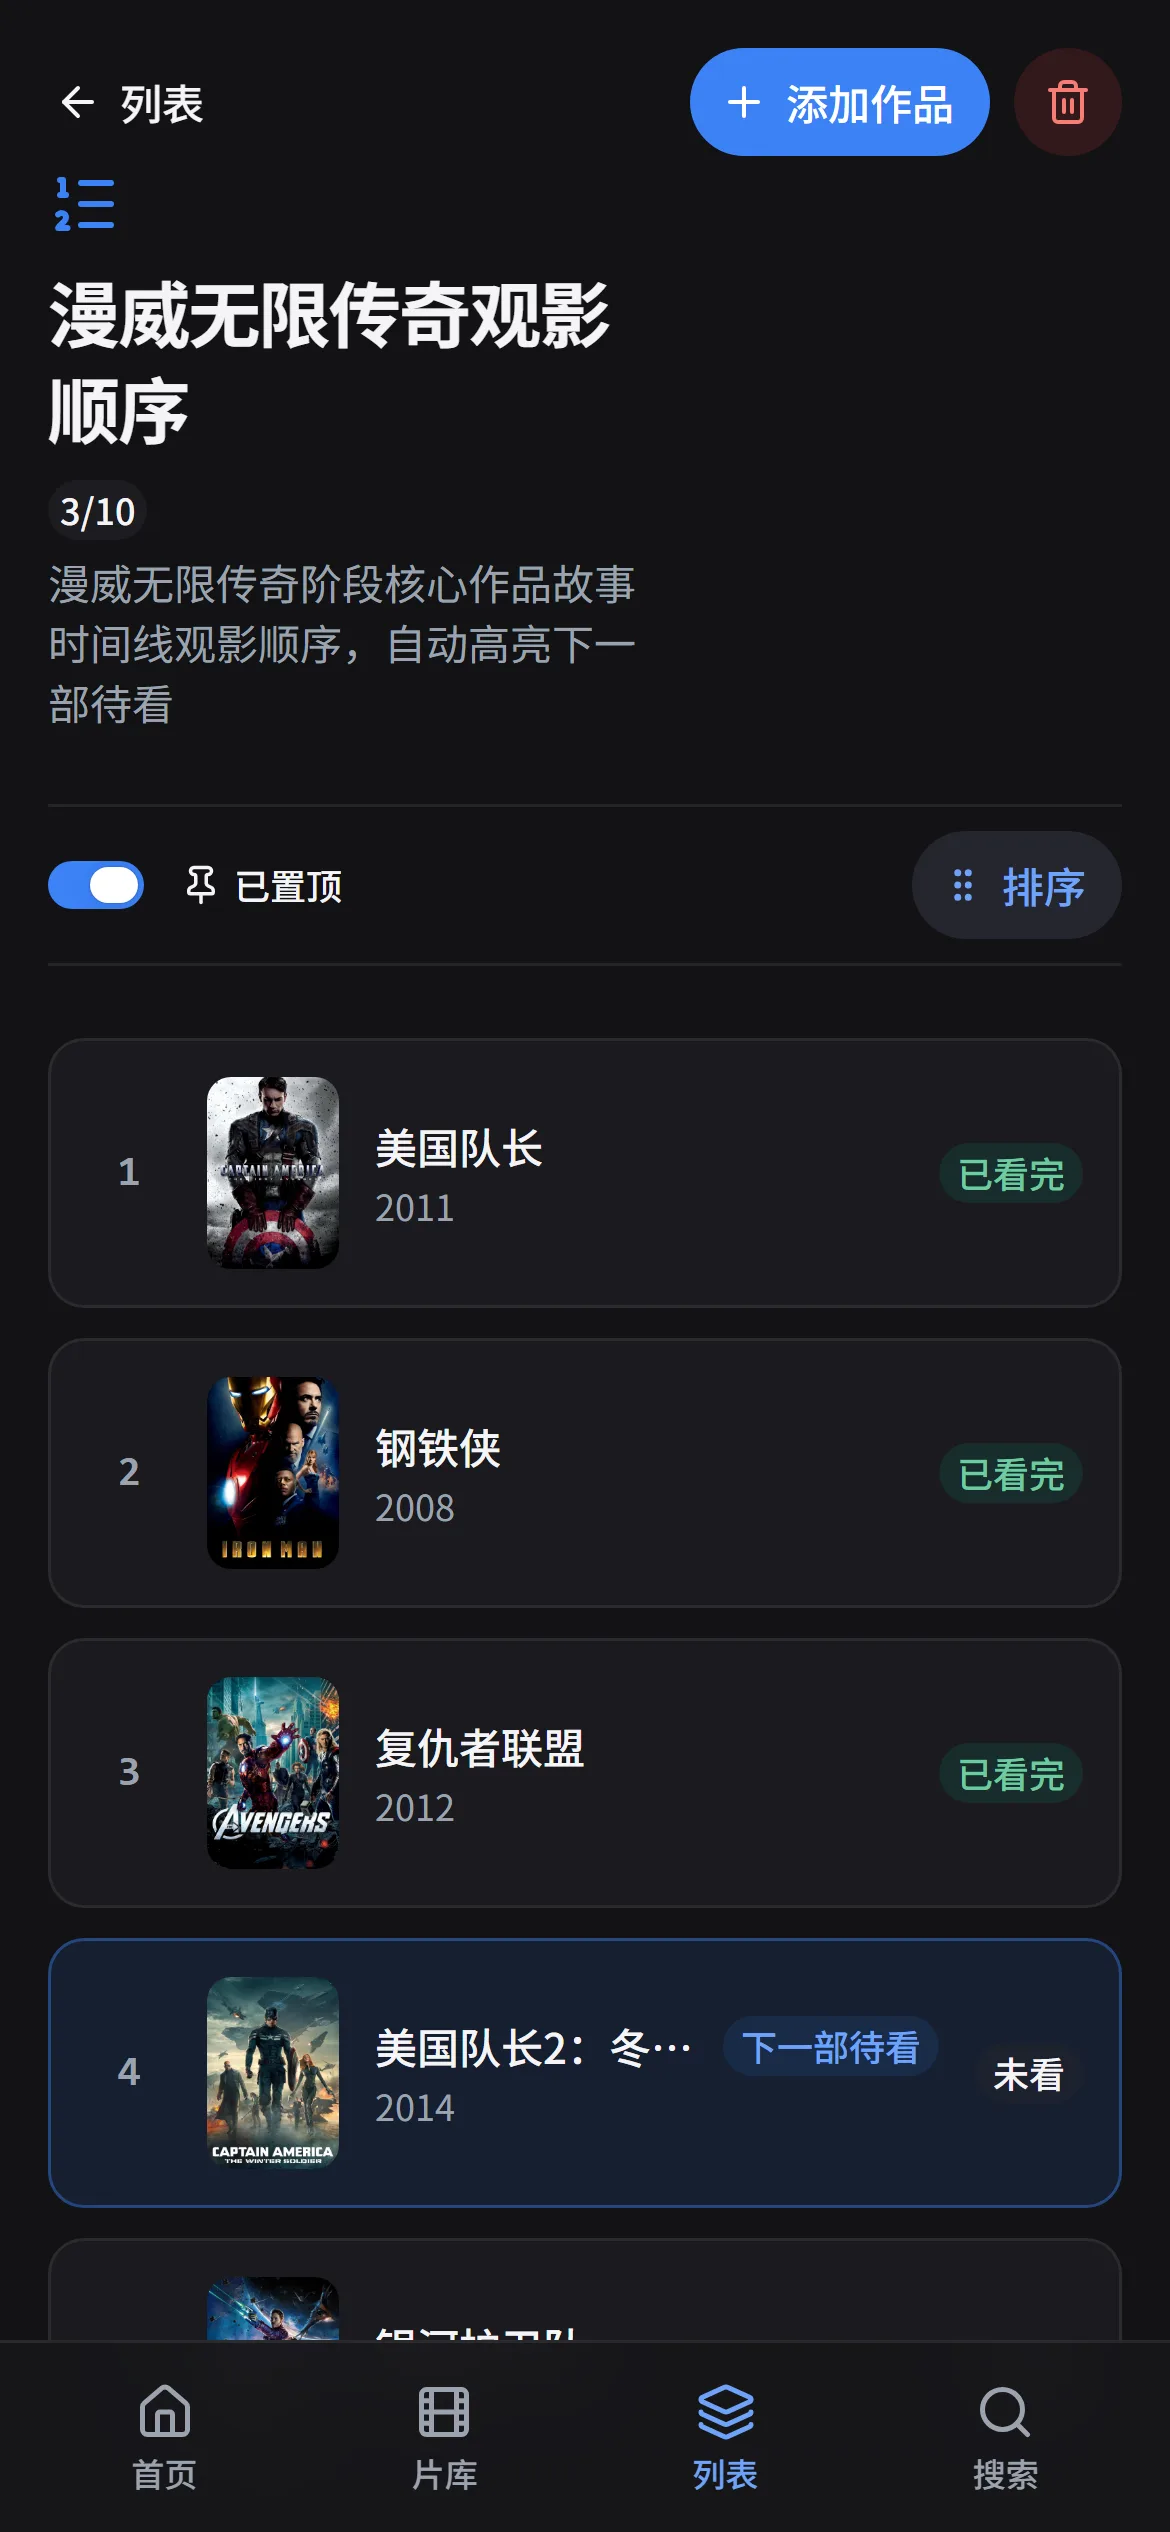
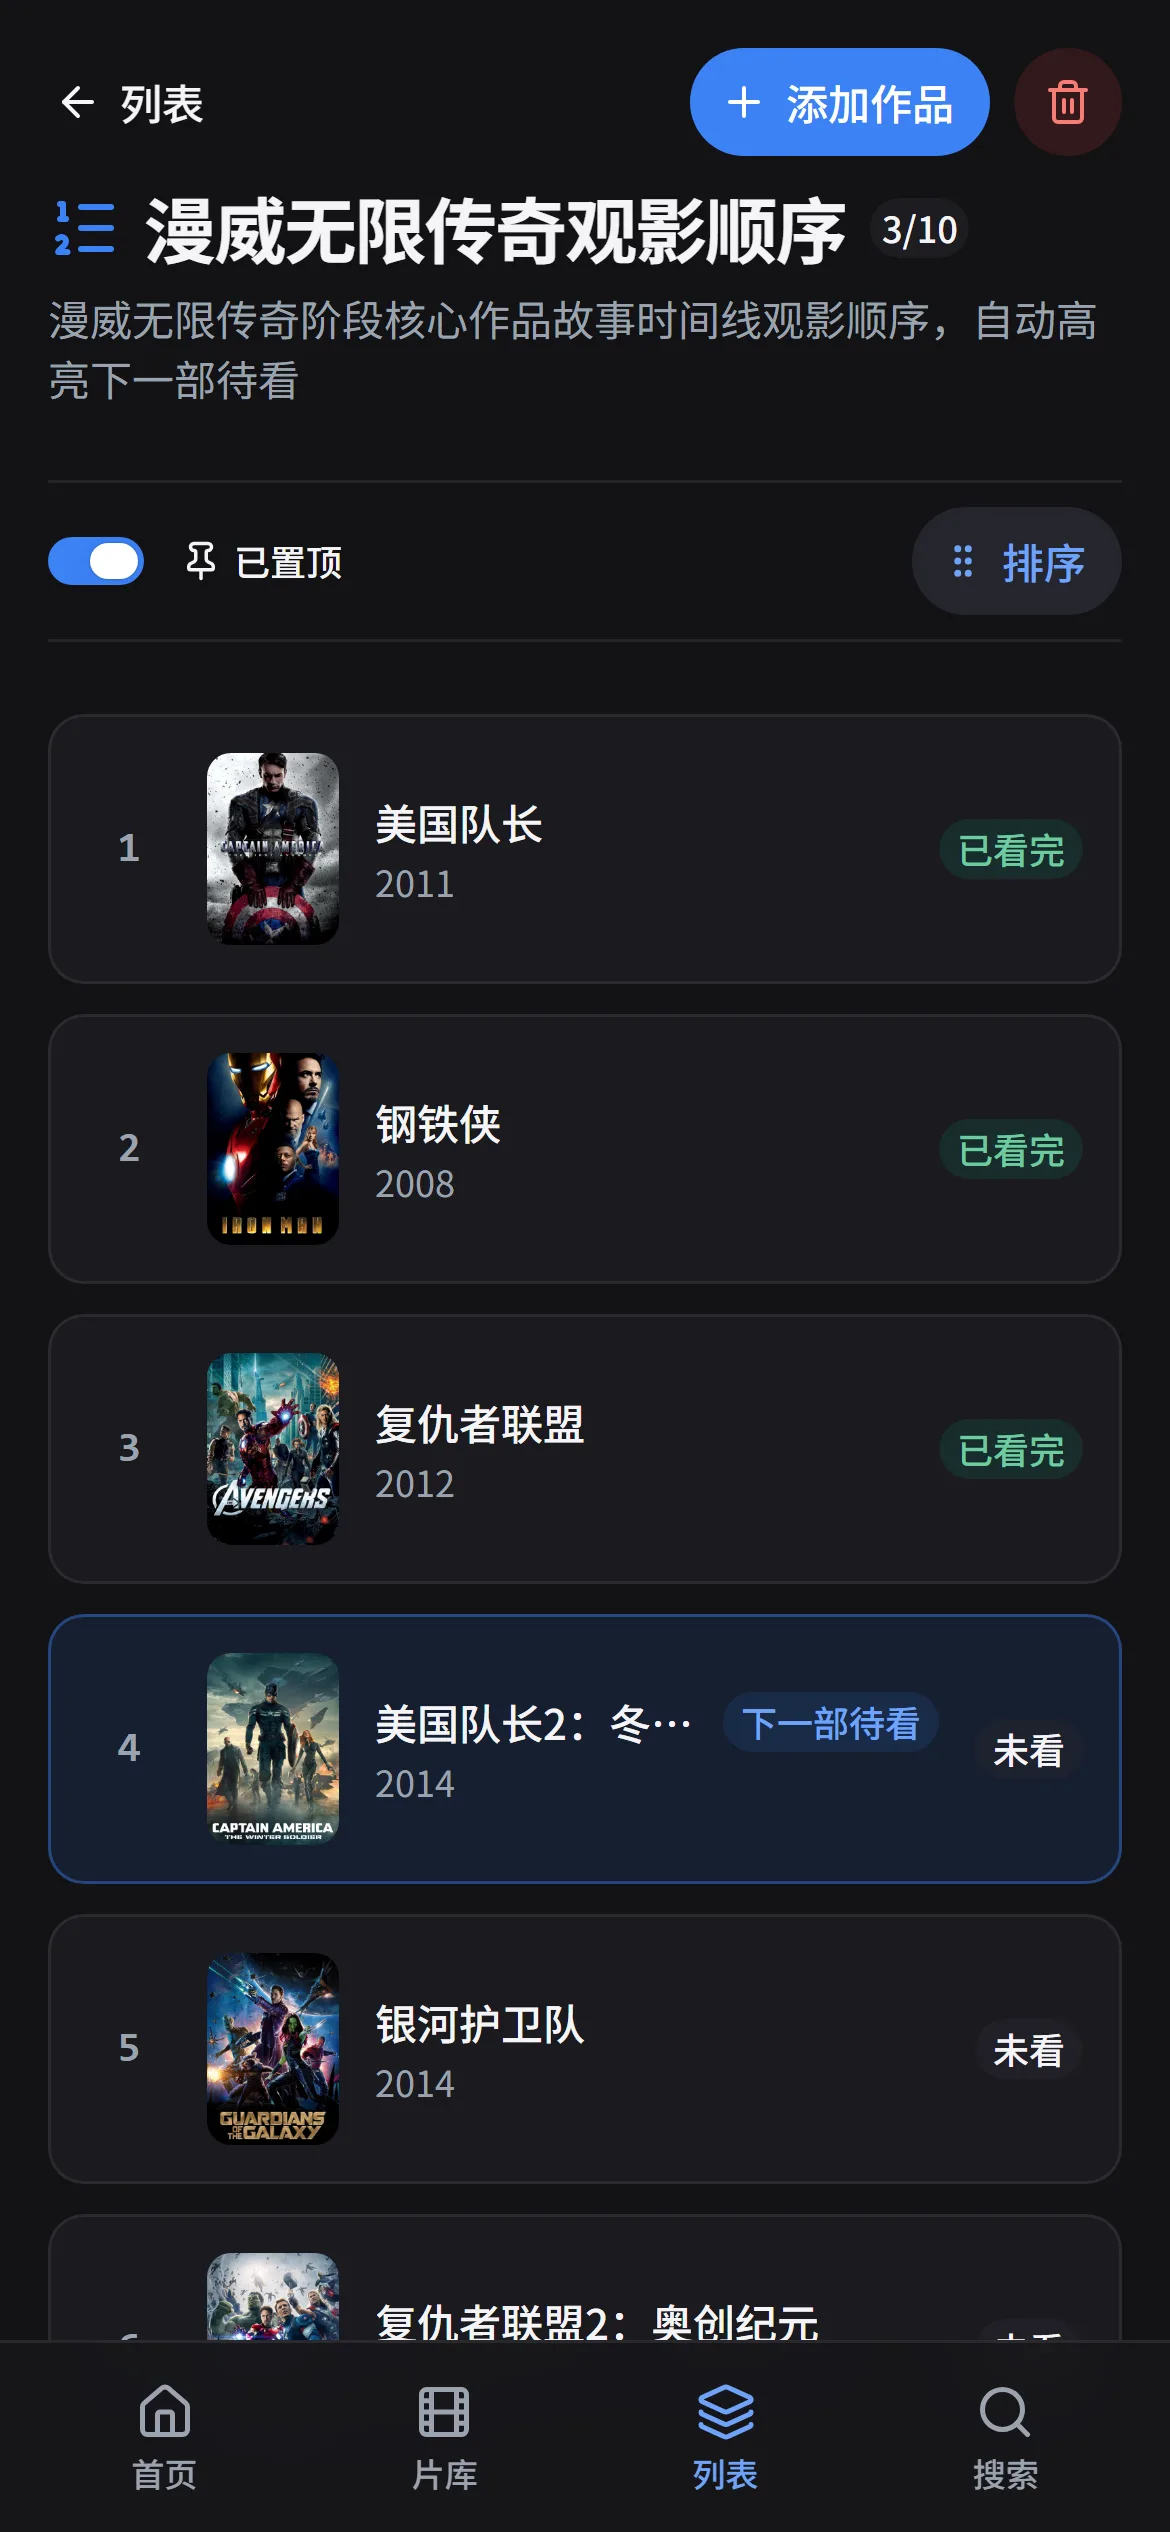
Refresh the list screenshot and document reproducible captures
The list header now puts the title on its own row. Note that the demo
seed and screenshots should run without TMDB/OMDb keys so the images
come from the bundled fixtures; with a live key TMDB's own translations
(for example a Traditional Chinese title) end up in the README.

diff --git a/AGENTS.md b/AGENTS.md
@@ -5,7 +5,7 @@ Product, data-safety and code rules for 帧迹 Zhenji. They are not derivable fr
 ## Commands
 
 - `npm run dev` starts the server with Vite on port 3000. `npm run format:check`, `npm run lint` (tsc + ESLint), `npm test` and `npm run build` must pass before a PR; `npm run qa` checks responsive UI and sync against the build.
-- `npm run seed:demo` creates `./data-demo`; `npm run screenshots` regenerates the README images from it.
+- `npm run seed:demo` creates `./data-demo`; `npm run screenshots` regenerates the README images from it. Run both with `TMDB_READ_TOKEN` and `OMDB_API_KEY` empty so the images use the bundled fixtures and stay reproducible.
 - The PWA manifest is defined in `vite.config.ts`; do not add one under `public/`.
 
 ## Workflow

diff --git a/README.md b/README.md
@@ -264,7 +264,8 @@ npm run seed:demo
 # 检查代码格式（CI 同样执行）
 npm run format:check
 
-# 基于演示数据库重新生成 README 截图至 docs/screenshots（需先 seed:demo 与 build）
+# 基于演示数据库重新生成 README 截图至 docs/screenshots（需先 seed:demo 与 build；
+# 两步都应在 TMDB_READ_TOKEN 与 OMDB_API_KEY 为空时执行，以使用仓库内置的固定数据）
 npm run screenshots
 ```
 

diff --git a/README.en.md b/README.en.md
@@ -264,7 +264,8 @@ npm run seed:demo
 # Check formatting (also run in CI)
 npm run format:check
 
-# Regenerate the README screenshots in docs/screenshots from the demo database (run seed:demo and build first)
+# Regenerate the README screenshots in docs/screenshots from the demo database (run seed:demo and build first;
+# run both with TMDB_READ_TOKEN and OMDB_API_KEY empty so the images use the bundled fixtures)
 npm run screenshots
 ```
 
